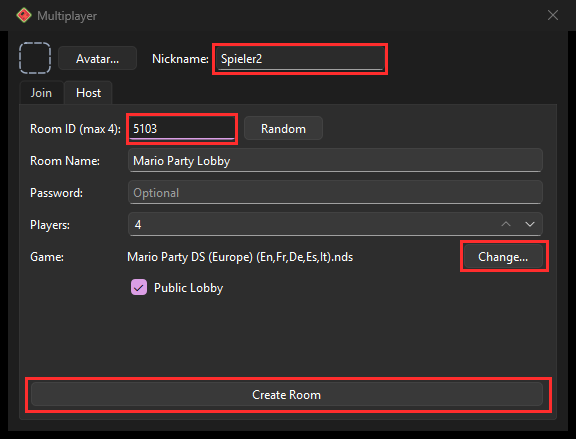
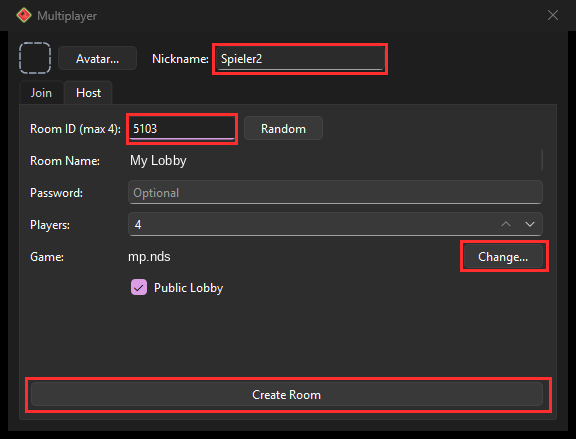
Remove game titles and game content from docs, defaults and workflows
- README: neutral wording, no-ROM/BIOS notice, non-affiliation disclaimer
- Remove in-game screenshot, anonymize host/lobby screenshots
- Rename default room names, drop game names from comments and workflow notes

Changed region(s): [[0.2188, 0.5626, 0.625, 0.6219], [0.2188, 0.3554, 0.4062, 0.385]]

diff --git a/src/frontend/qt_sdl/NetplayLobbyDialog.cpp b/src/frontend/qt_sdl/NetplayLobbyDialog.cpp
@@ -315,7 +315,7 @@ NetplayLobbyDialog::NetplayLobbyDialog(QWidget* parent, int initialTab)
         form->addRow("Room ID (max 4):", idRow);
 
         editRoomName = new QLineEdit(globalCfg.GetQString("Netplay.RoomName"), tab);
-        if (editRoomName->text().isEmpty()) editRoomName->setText("Mario Party");
+        if (editRoomName->text().isEmpty()) editRoomName->setText("My Lobby");
         editRoomName->setMaxLength(32);
         form->addRow("Room Name:", editRoomName);
 
@@ -908,7 +908,7 @@ void NetplayLobbyDialog::onHostStart()
     if (roomId.isEmpty()) roomId = randomRoomId4();
 
     QString roomName = editRoomName->text().trimmed();
-    if (roomName.isEmpty()) roomName = "Mario Party";
+    if (roomName.isEmpty()) roomName = "My Lobby";
 
     QStringList args;
     args << "--netsync" << "host"

diff --git a/src/frontend/qt_sdl/NetSync.cpp b/src/frontend/qt_sdl/NetSync.cpp
@@ -1,5 +1,5 @@
 /*
-    NetSync: input-delay netplay for melonDS (Mario Party DS style local-wireless games).
+    NetSync: input-delay netplay for melonDS (local-wireless / DS Download Play style games).
     See NetSync.h.
 */
 
@@ -129,7 +129,7 @@ static bool gAutoDelay = false;
 static int gPort = 7090;
 static std::string gAddr;
 static std::string gLocalName;
-static std::string gRoomName = "Mario Party Lobby";
+static std::string gRoomName = "My Lobby";
 static u64 gPassHash = 0;
 static std::string gLobbyUrl = "https://melonds-lobby.crackobdi.workers.dev";
 static bool gPublishLobby = false;

diff --git a/src/frontend/qt_sdl/Config.cpp b/src/frontend/qt_sdl/Config.cpp
@@ -124,7 +124,7 @@ DefaultList<std::string> DefaultStrings =
     {"DLDI.ImagePath",                  "dldi.bin"},
     {"DSi.SD.ImagePath",                "dsisd.bin"},
     {"Instance*.Firmware.Username",     "melonDS"},
-    {"Netplay.RoomName",                "Mario Party Lobby"},
+    {"Netplay.RoomName",                "My Lobby"},
     {"Netplay.LobbyURL",                "https://melonds-lobby.crackobdi.workers.dev"},
 };
 

diff --git a/src/frontend/qt_sdl/NetSync.h b/src/frontend/qt_sdl/NetSync.h
@@ -1,5 +1,5 @@
 /*
-    NetSync: input-delay netplay for melonDS (Mario Party DS style local-wireless games).
+    NetSync: input-delay netplay for melonDS (local-wireless / DS Download Play style games).
 
     Every PC runs ALL DS instances locally in deterministic emulated-time lockstep
     (connected through DeterministicMP, zero OS thread timing dependency),

diff --git a/README.md b/README.md
@@ -1,6 +1,8 @@
 # melonDS Multiplayer
 
-NDS games online with **2–4 friends** — including **DS Download Play** for games like *Mario Party DS*, *Mario Kart DS*, *New Super Mario Bros.*, and more.
+Play Nintendo DS games online with **2–4 friends** — including games that use **DS Download Play** / local wireless.
+
+> **No games or system files are included.** You need your own legally obtained copies of the BIOS, firmware and game files (e.g. dumped from your own console). Nothing here links to or provides ROMs or BIOS files.
 
 ## Features
 - **Simple Host & Join:** Create a room with a 4-digit Room Code (optional password)
@@ -32,13 +34,14 @@ NDS games online with **2–4 friends** — including **DS Download Play** for g
 
 ![Step 4 - Join Room](docs/join.png)
 
-8. **In-Game (Download Play):** Host opens *Multiplayer → Host → Find Players*, and everyone else opens *DS Download Play* from the DS home screen:
-
-![Step 5 - In-Game](docs/ingame.png)
+8. **In-Game (Download Play):** If the game uses DS Download Play, the host starts the multiplayer / wireless mode in the game, and everyone else opens *DS Download Play* from the DS home screen.
 
 ## Quick Tips
 - **Laptops & MacBooks:** Plug in your charger and turn off **Low Power / Battery Saver** mode for better perfomance.
 - **Firewall:** Allow `melonDS` in the Windows / macOS firewall popup when asked.
+
+## Disclaimer
+This is an unofficial, fan-made project and is **not affiliated with, endorsed by, or sponsored by Nintendo**. All trademarks and game titles belong to their respective owners. No copyrighted game data, BIOS or firmware is distributed.
 
 ## License
 Open-source fork of [melonDS](https://github.com/melonDS-emu/melonDS), licensed under GPLv3 ([LICENSE](LICENSE)).
